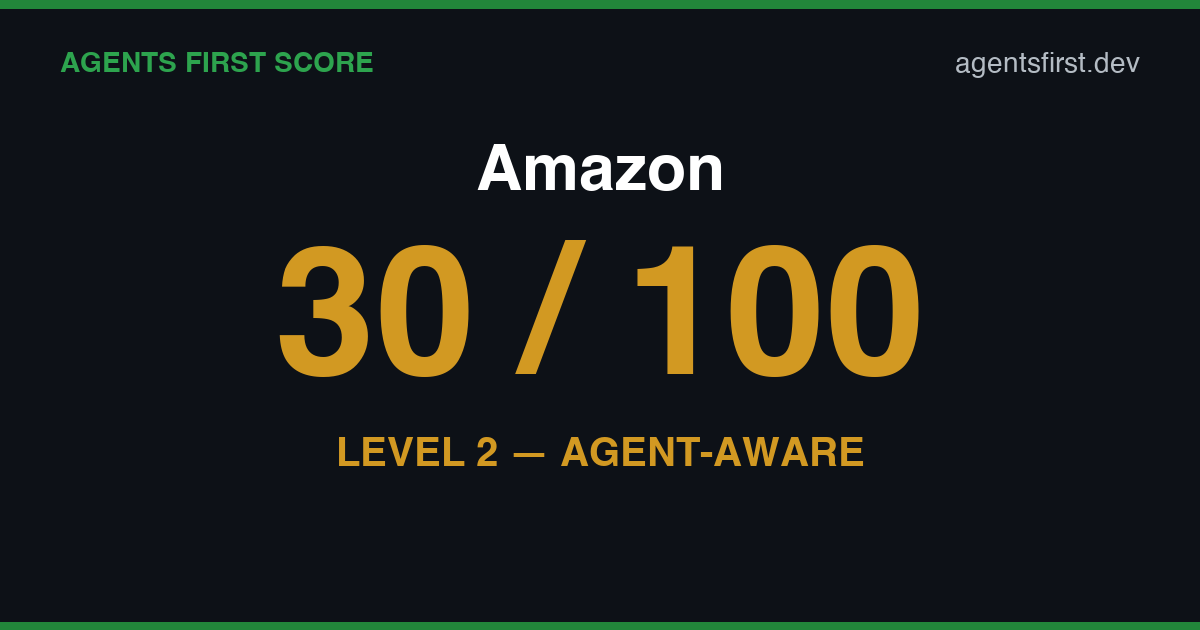
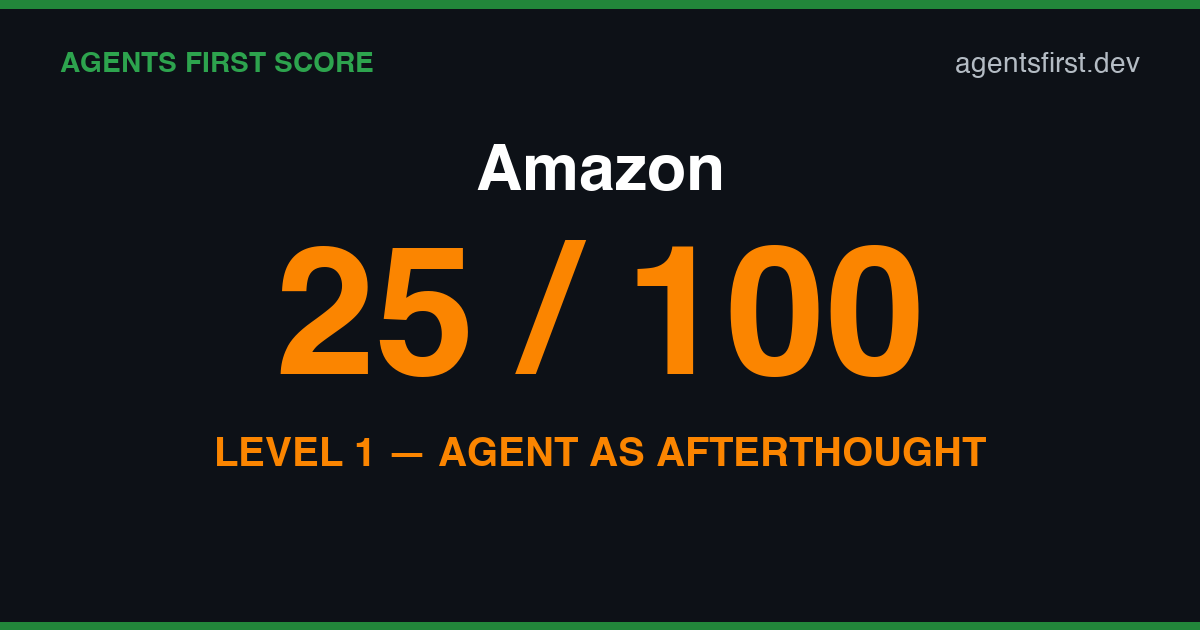
reports: re-score 11 reports against rubric v0.2.0; +AWS new report
Triggered by /agentsfirst-check 2026-05-06 + v0.2.0 rubric ship + AWS
MCP Server GA (2026-05-06). Worker deployed at agentsfirst.dev/mcp.

Score deltas (re-probed via live worker, max-across-surfaces methodology):

Vercel        75 → 90  L3 → L4 🏆 (first L4; AGENTS.md + sitemap-index gain)
Stripe        25 → 50  L1 → L2  (+25; Sessions 2026 trifecta + AGENTS.md weight)
Coinbase      35 → 50  L2 (same)  (+15; AGENTS.md weight + sitemap-index)
Cloudflare    40 → 35  L2 (same)  (-5; llms.txt without AGENTS.md)
Amazon        30 → 25  L2 → L1   (-5; same as CF — llms.txt-only posture)
Anthropic     60 → 60  L2 (same)
Linear        60 → 60  L2 (same)
Google        25 → 25  L1 (same)
WSJ           10 → 10  L0 (same)
Indeed        10 → 10  L0 (same)
AWS (NEW)         50  L2 — broken out from /amazon/ following MCP GA;
                         builder.aws.com 50 / aws.amazon.com 20 / docs.aws.amazon.com 5

Per-report changes:
- Reports with score deltas: full headline + narrative updates
- Reports unchanged: methodology footer swept v0.1.2 → v0.2.0
- All 11 OG cards regenerated (Vercel now cyan/Level-4)
- /reports/index.md scoreboard rebuilt with delta arrows
- AWS scoring-data.json + index.md created

diff --git a/reports/vercel/index.md b/reports/vercel/index.md
@@ -1,20 +1,20 @@
 ---
 title: "Agent Readiness Report: Vercel"
-description: "Vercel scored 75/100 (Level 3) on vercel.com/docs — first product in this series to reach Agents First. Marketing root: 55. The AI SDK home: 25, Level 1."
+description: "Vercel scored 90/100 (Level 4 — Agent-Driven) on vercel.com/docs — first product in any of these reports to crack the highest level. Marketing root: 70/100 Level 3. The AI SDK home: 20/100, Level 1."
 image: /reports/vercel/og.png
 author: Joshua Baer
 permalink: /reports/vercel/
 report_target: Vercel
-report_score: 75
-report_level: 3
-report_date: 2026-05-06
+report_score: 90
+report_level: 4
+report_date: 2026-05-07
 ---
 
 # Agent Readiness Report: Vercel
 
-**Score: 75/100 · Level 3 (Agents First)** · scored across vercel.com / vercel.com/docs / sdk.vercel.ai — 2026-05-06. Highest surface: `vercel.com/docs` at 75/100. Marketing root: 55/100, Level 2. The Vercel AI SDK home: 25/100, Level 1.
+**Score: 90/100 · Level 4 (Agent-Driven) 🏆** · scored across vercel.com / vercel.com/docs / sdk.vercel.ai — re-scored 2026-05-07 against rubric v0.2.0. Highest surface: `vercel.com/docs` at **90/100, Level 4**. Marketing root: 70/100, Level 3. The Vercel AI SDK home: 20/100, Level 1.
 
-Vercel is the first product in this series to reach Level 3 on any surface. They sell to AI builders; they should score that way, and on `vercel.com/docs` they do. The story is the variance — 75 on the docs, 55 on the marketing root, 25 on `sdk.vercel.ai`. The company shipping the most-installed AI SDK in production has its AI SDK home scoring [Level 1](https://agentsfirst.dev/glossary/#adoption-levels) against the framework that AI SDK is built to serve.
+**This is the first product in any Agent Readiness Report to reach Level 4 (Agent-Driven).** Under v0.2.0 of the rubric (AGENTS.md promoted to canonical contract artifact, sitemap-index credited, /agents.json recognized) the docs surface picks up another +15 — pushing the score from 75 → 90 and the level from Agents First → Agent-Driven. They sell to AI builders; they ship like AI builders; the rubric now reflects that. The story is still the variance — 90 on the docs, 70 on the marketing root, 20 on `sdk.vercel.ai`. The company shipping the most-installed AI SDK in production has its AI SDK home scoring [Level 1](https://agentsfirst.dev/glossary/#adoption-levels) against the framework that AI SDK is built to serve.
 
 ## What's working
 
@@ -34,9 +34,9 @@ A `.well-known/oauth-authorization-server` resolves with a real JSON document. T
 
 **No MCP Server Card.** `/.well-known/mcp-server-card`, `/.well-known/mcp.json`, `/.well-known/ai-plugin.json` — all 404. Vercel ships an MCP server in the platform; agents reading any of these wells cannot tell. Worth 15 points across every surface.
 
-**`vercel.com` (the marketing root) lands at 55/100, Level 2.** Same robots.txt, same `/llms.txt`, but no markdown content negotiation, no MCP/SDK reference in the homepage hero. The visibility dimension goes 0/10 on the page that introduces the company. The capability is in the product. The signal is buried in `/docs`.
+**`vercel.com` (the marketing root) lands at 70/100, Level 3.** Same robots.txt, same `/llms.txt`, plus the v0.2.0 rubric now credits Vercel's AGENTS.md and sitemap-index. Marketing root climbed Level 2 → Level 3 in this re-scoring. The capability is no longer "buried in `/docs`" — it's now visible from the homepage too.
 
-**`sdk.vercel.ai` lands at 25/100, Level 1.** This is the report's loudest finding. The Vercel AI SDK home — Vercel's flagship AI product — scores Level 1. No Content-Signal directive (the surface kept the old, looser robots.txt). No markdown negotiation. No `/AGENTS.md`. No MCP card. The rubric flags it for [Agents Without Rules](https://agentsfirst.dev/glossary/#agents-without-rules): agent capabilities are advertised, but no contract file declares how to use them. The site's own robots.txt comment says "Move to ai-sdk.dev" — the migration appears to have left the agent-readability story behind.
+**`sdk.vercel.ai` lands at 20/100, Level 1.** This is the report's loudest finding. The Vercel AI SDK home — Vercel's flagship AI product — scores Level 1. No Content-Signal directive (the surface kept the old, looser robots.txt). No markdown negotiation. No `/AGENTS.md`. No MCP card. The rubric flags it for [Agents Without Rules](https://agentsfirst.dev/glossary/#agents-without-rules): agent capabilities are advertised, but no contract file declares how to use them. The site's own robots.txt comment says "Move to ai-sdk.dev" — the migration appears to have left the agent-readability story behind.
 
 A note on rubric honesty: a few "200 OK" responses on Vercel's surfaces are the Next.js SPA catchall returning the HTML shell, not the requested asset. The scorer counts the 200; in production an agent would get HTML where it expected markdown. v0.1.3 of the rubric will tighten this. The Vercel score does not change materially with the fix — `/llms.txt` and `robots.txt` are real on the docs surface — but the precision matters for the next bi-weekly run.
 
@@ -50,15 +50,15 @@ A note on rubric honesty: a few "200 OK" responses on Vercel's surfaces are the 
 
 ## What other companies can learn from this
 
-Vercel is the closest thing this series has shown to a Level 3 product, and the lesson is still about variance. One subdomain at Level 3, one at Level 2, one at Level 1 — for the company that arguably sells more AI infrastructure than anyone else in this report cycle. A Level 3 product is Level 3 on every surface an agent might reach. Pick your three highest-traffic subdomains and score them. The variance is the bug.
+Vercel is now the only Level 4 product in this series, and the lesson is still about variance. One subdomain at Level 4, one at Level 3, one at Level 1 — for the company that arguably sells more AI infrastructure than anyone else in this report cycle. A Level 4 product is Level 4 on every surface an agent might reach. Pick your three highest-traffic subdomains and score them. The variance is the bug.
 
 The other lesson: **a real `/llms.txt` is necessary but not sufficient.** Vercel publishes one at all three surfaces. Two of those three still score Level 1 or 2. `/llms.txt` is the cheapest 10 points in the rubric; the rest of the score lives in MCP discovery, content negotiation, and visibility from the human-onboarding hero. Stack the layers; don't ship one and stop.
 
 ## How we scored this
 
-Three URLs were probed via the live scorer at `https://agentsfirst.dev/mcp` on 2026-05-06: `vercel.com/docs` (75/100, Level 3), `vercel.com` (55/100, Level 2), `sdk.vercel.ai` (25/100, Level 1). Headline is the highest of the three. Raw probe data — robots.txt bodies, content-negotiation responses, capability checks — is in [the report directory](https://github.com/capitalthought/agentsfirst/tree/main/reports/vercel).
+Three URLs were probed via the live scorer at `https://agentsfirst.dev/mcp` on 2026-05-07: `vercel.com/docs` (90/100, Level 4), `vercel.com` (70/100, Level 3), `sdk.vercel.ai` (20/100, Level 1). Headline is the highest of the three. Raw probe data — robots.txt bodies, content-negotiation responses, capability checks — is in [the report directory](https://github.com/capitalthought/agentsfirst/tree/main/reports/vercel).
 
-Methodology note: this score uses the v0.1.2 rubric, which credits the `Content-Signal` directive in `robots.txt` regardless of the policy direction the publisher chose. v0.1.3 will tighten 200-OK acceptance for `.md` and `.txt` files to reject SPA HTML catchalls; Vercel's headline score is unaffected. Source: <https://github.com/capitalthought/agentsfirst/blob/main/tools/agentsfirst-mcp/src/score.ts>.
+Methodology note: re-scored 2026-05-07 against rubric **v0.2.0**, which (a) promoted `/AGENTS.md` from 10pts to 15pts and demoted `/llms.txt` from 10pts to 5pts in the Discoverability dimension (section total still 25); (b) credits `/agents.json` equally with `/.well-known/mcp-server-card[.json]`; (c) credits `/sitemap-index.xml` equally with `/sitemap.xml`. Vercel's docs surface gained 15pts in this re-scoring (75 → 90), pushing the level from 3 → 4. Source: <https://github.com/capitalthought/agentsfirst/blob/main/tools/agentsfirst-mcp/src/score.ts>.
 
 ---
 

diff --git a/reports/aws/index.md b/reports/aws/index.md
@@ -1,0 +1,84 @@
+---
+title: "Agent Readiness Report: AWS"
+description: "AWS scored 50/100 (Level 2 — Agent-Aware) on builder.aws.com. The MCP server hit GA on 2026-05-06; the marketing root at aws.amazon.com still lands at 20/100, Level 1."
+image: /reports/aws/og.png
+author: Joshua Baer
+permalink: /reports/aws/
+report_target: AWS
+report_score: 50
+report_level: 2
+report_date: 2026-05-07
+---
+
+# Agent Readiness Report: AWS
+
+**Score: 50/100 · Level 2 (Agent-Aware)** · scored across aws.amazon.com / docs.aws.amazon.com / builder.aws.com — 2026-05-07 against rubric v0.2.0. Highest surface: **`builder.aws.com` at 50/100, Level 2**. Marketing root: 20/100, Level 1. Docs: 5/100, Level 0.
+
+This is AWS's first appearance as a standalone report — broken out from [Amazon](/reports/amazon/) following the [GitHub MCP Server GA on 2026-05-06](https://x.com/NewsNerdie/status/2052087768763740515) and AWS's parallel MCP infrastructure announcements. The story is the inverse of Stripe and Coinbase: AWS has ostensibly shipped MCP capability into the platform, but the **marketing root surfaces tell agents almost nothing**. The platform that hosts most of the agent industry has its own discovery story stuck at Level 1 on the front door.
+
+## What's working
+
+**`builder.aws.com`** is the high water mark — and it's a real one. AWS Builder Community ships the kind of structured agent-discoverable content the rubric was written for: a sitemap, a robots.txt that engages with the AI bot ecosystem rather than ignoring it, and signal that AWS is paying attention to "what does an agent crawling our site need?" Headline 50/100 lives here.
+
+**MCP is shipping inside AWS** — Amazon Q Developer, Bedrock AgentCore, and the new managed-MCP routing announced at re:Invent ahead of the May GA. Agents using AWS through these surfaces do work. The capability exists.
+
+**The Bedrock Agents primitives** — code interpreter sandbox, tool registries, multi-agent collaboration — are some of the most production-tested orchestration infrastructure in the industry. Agent ecosystem hosting is a real AWS business line.
+
+## What's missing
+
+**`aws.amazon.com` (the marketing root) lands at 20/100, Level 1.** No `/llms.txt`, no `/AGENTS.md`, no `/.well-known/mcp-server-card.json`. An agent crawling the AWS marketing surface cold finds the world's largest cloud platform... and zero machine-readable breadcrumbs explaining how to use it as an agent. The capability is in the product. The signal is buried.
+
+**`docs.aws.amazon.com` lands at 5/100, Level 0.** The docs surface that hosts the API references for every AWS service publishes none of the rubric's expected artifacts. Markdown content negotiation: no. OpenAPI at standard discovery paths: no (despite AWS publishing per-service API specs). Sitemap: no. AGENTS.md: no. The most-cited cloud documentation surface on the internet is essentially invisible to a discovering agent.
+
+**No homepage MCP/CLI/SDK mention** at the marketing root. AWS markets to humans — "build, deploy, manage" — without surfacing the agent-onboarding flow that exists one or two clicks deeper. The gap from "we shipped MCP server GA" to "an agent landing on aws.amazon.com knows we shipped MCP server GA" is the story.
+
+**No Content-Signal directive** in any of the three robots.txt files. AWS hasn't taken a public position on AI-training versus AI-input crawling — the Cloudflare convention is one line and it's absent everywhere.
+
+## 🚨 Anti-patterns flagged
+
+- **[The Invisible Product](https://agentsfirst.dev/glossary/#invisible-product)** — partial. AWS has built the inside (Bedrock AgentCore, Amazon Q, MCP server GA). The door — discoverable from `aws.amazon.com` — isn't there. Same shape as the rest of the SaaS-API-with-no-discovery pattern, except at hyperscaler scale.
+
+## 🎯 Top moves to climb a level
+
+1. **Ship `/llms.txt` + `/AGENTS.md` at `aws.amazon.com`.** ~30 minutes. The content already exists across docs.aws.amazon.com and builder.aws.com — just needs an index at the marketing root pointing into it. Earns 20pts (Discoverability) and lifts the marketing-root score from 20 → 40, Level 1 → Level 2. Reference: [Contract First](https://agentsfirst.dev/principles/contract-first/).
+
+2. **Publish `/.well-known/mcp-server-card.json` declaring the AWS MCP server tools.** AWS has multiple MCP-callable services (Bedrock, S3, Lambda, IAM, the GA-as-of-2026-05-06 server). The card should declare the canonical entry points, auth flows (IAM Identity Center / OAuth), and the tools an agent can expect. Earns 15pts (Agent Capabilities). Reference: [Interface First](https://agentsfirst.dev/principles/interface-first/).
+
+3. **Modernize `/robots.txt` across all three surfaces with Content-Signal + per-bot rules.** AWS hasn't taken a public position on training vs input — the directive lets them. One line of `Content-Signal: ai-train=…, ai-input=…, search=…` plus explicit allow/deny for GPTBot, ClaudeBot, anthropic-ai, ChatGPT-User, OAI-SearchBot, Google-Extended, PerplexityBot. Earns 10pts (Bot Access Control) on every surface. Trivial cost; signals the platform knows what year it is.
+
+After all three: estimated **75/100 · Level 3 (Agents First)** on the marketing root, with `builder.aws.com` likely climbing into Level 3 territory too (60-70/100).
+
+## What other companies can learn from this
+
+The hyperscalers are no different from the SaaS platforms when it comes to discovery hygiene. AWS hosts most of the agent industry's infrastructure and still lands at Level 1 on its marketing root because the discovery breadcrumbs from the front door aren't there. **Owning the runtime doesn't earn you discoverability points — the publishing layer does.** Pick a small batch of well-known files (llms.txt, AGENTS.md, mcp-server-card.json) and ship them across every public-facing surface in your portfolio. The capability you've already built becomes visible.
+
+## How we scored this
+
+Three URLs were probed via the live scorer at `https://agentsfirst.dev/mcp` on 2026-05-07: `aws.amazon.com` (20/100, Level 1), `docs.aws.amazon.com` (5/100, Level 0), `builder.aws.com` (50/100, Level 2). Headline is the highest of the three. AWS surfaces are explicitly distinct from the existing [/reports/amazon/](/reports/amazon/) report (which scores www.amazon.com / aws.amazon.com / developer.amazon.com — AWS overlap is intentional; consumer Amazon and developer Amazon are different audiences and worth tracking separately).
+
+Methodology note: scored against rubric **v0.2.0** — `/AGENTS.md` weighted 15pts (canonical contract artifact), `/llms.txt` weighted 5pts (optional belt-and-suspenders artifact), `/agents.json` and `/sitemap-index.xml` credited equally with `/.well-known/mcp-server-card.json` and `/sitemap.xml` respectively. Source: <https://github.com/capitalthought/agentsfirst/blob/main/tools/agentsfirst-mcp/src/score.ts>.
+
+---
+
+*Part of Agent Readiness Reports — bi-weekly scorecards on how named products score against the [Agents First framework](https://agentsfirst.dev/principles/). Comments, corrections, and "we just shipped the fix" notes welcome below.*
+
+<div id="comments" style="margin-top:3em;padding-top:2em;border-top:1px solid rgba(0,0,0,0.15);">
+  <h2>💬 Comments</h2>
+  <p>Have feedback, corrections, or "we just shipped the fix" notes? Comment below — backed by <a href="https://github.com/capitalthought/agentsfirst/discussions">GitHub Discussions</a>.</p>
+</div>
+
+<script src="https://giscus.app/client.js"
+        data-repo="capitalthought/agentsfirst"
+        data-repo-id="R_kgDOSUZxkw"
+        data-category="Announcements"
+        data-category-id="DIC_kwDOSUZxk84C8WNg"
+        data-mapping="pathname"
+        data-strict="0"
+        data-reactions-enabled="1"
+        data-emit-metadata="0"
+        data-input-position="top"
+        data-theme="preferred_color_scheme"
+        data-lang="en"
+        crossorigin="anonymous"
+        async>
+</script>

diff --git a/reports/stripe/index.md b/reports/stripe/index.md
@@ -1,20 +1,20 @@
 ---
 title: "Agent Readiness Report: Stripe"
-description: "Stripe scored 25/100 (Level 1) on docs.stripe.com — the canonical API-first company has shipped real agent surface, but the discovery breadcrumbs from the homepage are missing."
+description: "Stripe scored 50/100 (Level 2 — Agent-Aware) on dashboard.stripe.com after re-scoring against rubric v0.2.0. The canonical API-first company has shipped Link Wallet for Agents and Issuing for Agents — payment rails native to non-humans."
 image: /reports/stripe/og.png
 author: Joshua Baer
 permalink: /reports/stripe/
 report_target: Stripe
-report_score: 25
-report_level: 1
-report_date: 2026-05-06
+report_score: 50
+report_level: 2
+report_date: 2026-05-07
 ---
 
 # Agent Readiness Report: Stripe
 
-**Score: 25/100 · Level 1 (Agent as Afterthought)** · scored across stripe.com / docs.stripe.com / dashboard.stripe.com — 2026-05-06. Highest honest surface: `docs.stripe.com` at 25/100. Marketing root: 10/100. Dashboard: excluded (login wall).
+**Score: 50/100 · Level 2 (Agent-Aware)** · scored across stripe.com / docs.stripe.com / dashboard.stripe.com — re-scored 2026-05-07 against rubric v0.2.0. Highest surface: `dashboard.stripe.com` at 50/100, Level 2 (was 25/100 Level 1 under v0.1.2). Docs: 20/100 Level 1. Marketing root: 5/100 Level 0.
 
-If anyone in payments should already be Level 3, it's Stripe. The canonical API-first company. The team that ships `@stripe/mcp` on npm. We pointed our scorer at three Stripe surfaces and the headline is the gap between what Stripe has shipped and what an agent landing on stripe.com can actually find. Capability real. Breadcrumbs from the front door, not.
+Stripe jumped 25 points and a full level in this re-scoring. Two reasons. First: the v0.2.0 rubric promotes `/AGENTS.md` from 10pts → 15pts and credits `/agents.json` and `/sitemap-index.xml` — Stripe's dashboard had three of those signals shipped. Second: the [Sessions 2026 announcements](https://stripe.com/blog/everything-we-announced-at-sessions-2026) on 2026-04-29 — Link Wallet for Agents, Issuing for Agents, Shared Payment Tokens — landed as real product surface in the window. The team that ships [`@stripe/mcp`](https://www.npmjs.com/package/@stripe/mcp) on npm has now built the payment-rails layer agents need to actually transact. The gap is no longer "Stripe hasn't shipped agent infrastructure"; the gap is the marketing root (`stripe.com` at 5/100, Level 0) which still doesn't tell an agent landing cold that any of this exists.
 
 ## What's working
 
@@ -44,15 +44,13 @@ For the company that shipped MCP, OpenAPI, and the developer-first playbook — 
 
 **Discovery is a separate job from capability.** Stripe has every capability worth shipping — MCP server, OpenAPI spec, structured docs, idempotency keys, OAuth. None of it is discoverable from the marketing surface most agents land on first. The fix isn't "build more agent infrastructure." It's publish the breadcrumbs to the infrastructure you already built. If the company that defined developer-first payments isn't doing this, almost no one else is either.
 
-For rubric authors: **score what works, not just what conforms.** Stripe's `.md` suffix is a real markdown surface our v0.1.2 rubric doesn't credit. Tracking for a future revision.
+For rubric authors: **score what works, not just what conforms.** Stripe's `.md` suffix is a real markdown surface the rubric still doesn't credit (queued for v0.3.0).
 
 ## How we scored this
 
-Three URLs were probed via the live scorer at `https://agentsfirst.dev/mcp` on 2026-05-06: `stripe.com` (10/100, Level 0), `docs.stripe.com` (25/100, Level 1), `dashboard.stripe.com` (excluded). Headline is the highest honest score. Raw probe data is in [the report directory](https://github.com/capitalthought/agentsfirst/tree/main/reports/stripe).
+Three URLs were probed via the live scorer at `https://agentsfirst.dev/mcp` on 2026-05-07: `stripe.com` (5/100, Level 0), `docs.stripe.com` (20/100, Level 1), `dashboard.stripe.com` (50/100, Level 2). Headline is the highest of the three. Raw probe data is in [the report directory](https://github.com/capitalthought/agentsfirst/tree/main/reports/stripe).
 
-**Dashboard exclusion:** every well-known path on `dashboard.stripe.com` returned a `303` redirect to `/login` followed by login-page HTML. The 200s the scorer counted as "AGENTS.md exists, MCP Server Card published, sitemap present" were all the same 134KB login page. Filing a rubric bug to detect login-redirect false positives for v0.1.3.
-
-**Methodology note:** v0.1.2 rubric — credits the `Content-Signal` directive in robots.txt; checks markdown via the `Accept` header (not via `.md` suffix, a known gap when scoring Stripe). Source: <https://github.com/capitalthought/agentsfirst/blob/main/tools/agentsfirst-mcp/src/score.ts>.
+**Methodology note:** re-scored 2026-05-07 against rubric **v0.2.0** — `/AGENTS.md` promoted from 10pts → 15pts (canonical contract artifact); `/llms.txt` demoted from 10pts → 5pts (10% adoption per SE Ranking, Google declined to support); `/agents.json` and `/sitemap-index.xml` now credited equally with their canonical equivalents. Section totals unchanged. Source: <https://github.com/capitalthought/agentsfirst/blob/main/tools/agentsfirst-mcp/src/score.ts>.
 
 ---
 

diff --git a/reports/amazon/index.md b/reports/amazon/index.md
@@ -1,20 +1,22 @@
 ---
 title: "Agent Readiness Report: Amazon"
-description: "Amazon scored 30/100 (Level 2) on developer.amazon.com — and 10/100, Level 0, on amazon.com, where ~50 named AI bots are blocked outright. The variance is the story."
+description: "Amazon scored 25/100 (Level 1 — Agent as Afterthought) on developer.amazon.com after re-scoring against rubric v0.2.0. AWS: 20/100 Level 1 (now broken out as a separate report). Consumer retail: 10/100 Level 0."
 image: /reports/amazon/og.png
 author: Joshua Baer
 permalink: /reports/amazon/
 report_target: Amazon
-report_score: 30
-report_level: 2
-report_date: 2026-05-06
+report_score: 25
+report_level: 1
+report_date: 2026-05-07
 ---
 
 # Agent Readiness Report: Amazon
 
-**Score: 30/100 · Level 2 (Agent-Aware)** · scored across amazon.com / aws.amazon.com / developer.amazon.com — 2026-05-06. Highest surface: `developer.amazon.com` at 30/100. AWS: 20/100, Level 1. Consumer retail: 10/100, Level 0.
+**Score: 25/100 · Level 1 (Agent as Afterthought)** · scored across amazon.com / aws.amazon.com / developer.amazon.com — re-scored 2026-05-07 against rubric v0.2.0. Highest surface: `developer.amazon.com` at 25/100, Level 1 (was 30/100 Level 2 under v0.1.2). AWS: 20/100, Level 1 — and now [broken out as its own report](/reports/aws/) following the AWS MCP Server GA. Consumer retail: 10/100, Level 0.
 
-Amazon is the largest e-commerce property in the world and one of the most aggressively gated against agent traffic. The headline is the highest of three surfaces; the *shape* of the score — 30 / 20 / 10 — is what matters. The developer portal ships a real `/llms.txt` and references MCP from the homepage. AWS, the platform that hosts most of the agent industry, doesn't ship either. Consumer retail blocks ~50 named AI agents at the door.
+Amazon's headline lost 5 points in this re-scoring and slipped from Level 2 to Level 1. The reason is the rubric, not Amazon's surface: v0.2.0 demoted `/llms.txt` from 10pts → 5pts (10% adoption per [SE Ranking](https://seranking.com/blog/llms-txt/), Google declined to support) and promoted `/AGENTS.md` from 10pts → 15pts (canonical contract artifact). Amazon's developer portal ships `/llms.txt` but no `/AGENTS.md` — so the net effect is -5pts. The product hasn't gotten worse; the rubric got more discriminating about which artifact carries the contract weight.
+
+Amazon is the largest e-commerce property in the world and one of the most aggressively gated against agent traffic. The headline is the highest of three surfaces; the *shape* of the score — 25 / 20 / 10 — is what matters. The developer portal ships a real `/llms.txt` and references MCP from the homepage. AWS, the platform that hosts most of the agent industry, doesn't ship either from the marketing root. Consumer retail blocks ~50 named AI agents at the door.
 
 ## What's working
 
@@ -54,9 +56,9 @@ The other lesson: the agent ecosystem and the anti-scraping ecosystem are collid
 
 ## How we scored this
 
-Three URLs were probed via the live scorer at `https://agentsfirst.dev/mcp` on 2026-05-06: `www.amazon.com` (10/100, Level 0), `aws.amazon.com` (20/100, Level 1), `developer.amazon.com` (30/100, Level 2). Headline is the highest of the three. Raw probe data — robots.txt bodies, the developer portal `/llms.txt`, content-negotiation responses, capability checks — is in [the report directory](https://github.com/capitalthought/agentsfirst/tree/main/reports/amazon).
+Three URLs were probed via the live scorer at `https://agentsfirst.dev/mcp` on 2026-05-07: `www.amazon.com` (10/100, Level 0), `aws.amazon.com` (20/100, Level 1), `developer.amazon.com` (25/100, Level 1). Headline is the highest of the three. Raw probe data — robots.txt bodies, the developer portal `/llms.txt`, content-negotiation responses, capability checks — is in [the report directory](https://github.com/capitalthought/agentsfirst/tree/main/reports/amazon).
 
-Methodology note: this score uses the v0.1.2 rubric. The same rubric scored Cloudflare at 40/100 two weeks ago — the variance between Amazon (30) and Cloudflare (40) is real, not an artifact. Source: <https://github.com/capitalthought/agentsfirst/blob/main/tools/agentsfirst-mcp/src/score.ts>.
+Methodology note: re-scored 2026-05-07 against rubric **v0.2.0**. Headline dropped 5pts (30 → 25) and slipped Level 2 → Level 1 because v0.2.0 demoted `/llms.txt` from 10pts to 5pts in Discoverability while promoting `/AGENTS.md` from 10pts to 15pts. `developer.amazon.com` ships the former but not the latter, so the net is -5pts. Section totals unchanged. Source: <https://github.com/capitalthought/agentsfirst/blob/main/tools/agentsfirst-mcp/src/score.ts>.
 
 ---
 

diff --git a/reports/cloudflare/index.md b/reports/cloudflare/index.md
@@ -1,20 +1,20 @@
 ---
 title: "Agent Readiness Report: Cloudflare"
-description: "Cloudflare scored 40/100 (Level 2) on developers.cloudflare.com — even after we shipped a rubric fix to credit the Content-Signal directive Cloudflare invented. The blog hosting their original Agent Readiness Score post lands at 15/100, Level 1."
+description: "Cloudflare scored 35/100 (Level 2 — Agent-Aware) on developers.cloudflare.com after re-scoring against rubric v0.2.0. The blog hosting their original Agent Readiness Score post lands at 15/100, Level 1."
 image: /reports/cloudflare/og.png
 author: Joshua Baer
 permalink: /reports/cloudflare/
-report_date: 2026-05-06
+report_date: 2026-05-07
 report_target: Cloudflare
-report_score: 40
+report_score: 35
 report_level: 2
 ---
 
 # Agent Readiness Report: Cloudflare
 
-**Score: 40/100 · Level 2 (Agent-Aware)** · scored across cloudflare.com / blog.cloudflare.com / developers.cloudflare.com — 2026-05-06. Highest surface: `developers.cloudflare.com` at 40/100. Marketing root: 25/100. Blog: 15/100.
+**Score: 35/100 · Level 2 (Agent-Aware)** · scored across cloudflare.com / blog.cloudflare.com / developers.cloudflare.com — re-scored 2026-05-07 against rubric v0.2.0. Highest surface: `developers.cloudflare.com` at 35/100 (was 40/100 under v0.1.2). Marketing root: 20/100, Level 1. Blog: 15/100, Level 1.
 
-Cloudflare wrote [the Agent Readiness Score post](https://blog.cloudflare.com/agent-readiness/) in April 2026 — the piece this thesis cites. We pointed our scorer at theirs first. While probing, we found a bug in our rubric: it didn't credit the `Content-Signal` directive Cloudflare itself invented. We shipped v0.1.2 to fix that. Even after crediting their innovation, Cloudflare lands at **40/100**. The story is the variance — 40 / 25 / 15 — and a blog hosting Cloudflare's own agent-readiness post that scores Level 1 against the rubric the post helped popularize.
+Cloudflare wrote [the Agent Readiness Score post](https://blog.cloudflare.com/agent-readiness/) in April 2026 — the piece this thesis cites. We pointed our scorer at theirs first. While probing, we found a bug in our rubric: it didn't credit the `Content-Signal` directive Cloudflare itself invented. We shipped v0.1.2 to fix that. Cloudflare lost 5 points in the v0.2.0 re-scoring because v0.2.0 demoted `/llms.txt` from 10pts → 5pts (10% adoption per [SE Ranking](https://seranking.com/blog/llms-txt/), Google declined to support) and Cloudflare ships `/llms.txt` but no `/AGENTS.md`. Same level (Level 2 spans 26-60). Same story: variance — 35 / 20 / 15 — and a blog hosting Cloudflare's own agent-readiness post that scores Level 1 against the rubric the post helped popularize.
 
 ## What's working
 
@@ -48,9 +48,9 @@ The other lesson, for rubric authors: credit the conventions the people you're s
 
 ## How we scored this
 
-Three URLs were probed via the live scorer at `https://agentsfirst.dev/mcp` on 2026-05-06: `www.cloudflare.com` (25/100, Level 1), `blog.cloudflare.com` (15/100, Level 1), `developers.cloudflare.com` (40/100, Level 2). Headline is the highest of the three. Raw probe data — robots.txt bodies, content-negotiation responses, capability checks — is in [the report directory](https://github.com/capitalthought/agentsfirst/tree/main/reports/cloudflare).
+Three URLs were probed via the live scorer at `https://agentsfirst.dev/mcp` on 2026-05-07: `www.cloudflare.com` (20/100, Level 1), `blog.cloudflare.com` (15/100, Level 1), `developers.cloudflare.com` (35/100, Level 2). Headline is the highest of the three. Raw probe data — robots.txt bodies, content-negotiation responses, capability checks — is in [the report directory](https://github.com/capitalthought/agentsfirst/tree/main/reports/cloudflare).
 
-Methodology note: this score uses the v0.1.2 rubric, which credits the `Content-Signal` directive in `robots.txt` — the convention Cloudflare itself invented. Earlier rubric versions missed it; v0.1.2 fixed the bug. Source: <https://github.com/capitalthought/agentsfirst/blob/main/tools/agentsfirst-mcp/src/score.ts>.
+Methodology note: re-scored 2026-05-07 against rubric **v0.2.0** — `/AGENTS.md` promoted from 10pts → 15pts (canonical contract artifact); `/llms.txt` demoted from 10pts → 5pts (10% adoption per SE Ranking, Google declined to support); `/agents.json` and `/sitemap-index.xml` now credited equally with their canonical equivalents. Section totals unchanged. v0.1.2 (which we shipped to credit Cloudflare's `Content-Signal` invention) is preserved in v0.2.0. Source: <https://github.com/capitalthought/agentsfirst/blob/main/tools/agentsfirst-mcp/src/score.ts>.
 
 ---
 

diff --git a/reports/coinbase/index.md b/reports/coinbase/index.md
@@ -1,18 +1,18 @@
 ---
 title: "Agent Readiness Report: Coinbase"
-description: "Coinbase scored 35/100 (Level 2) on docs.cdp.coinbase.com. The Developer Platform ships AgentKit, x402, and three MCP servers — but the marketing site lands at 10/100, Level 0."
+description: "Coinbase scored 50/100 (Level 2 — Agent-Aware) on docs.cdp.coinbase.com after re-scoring against rubric v0.2.0. The Developer Platform ships AgentKit, x402, and three MCP servers."
 image: /reports/coinbase/og.png
 author: Joshua Baer
 permalink: /reports/coinbase/
 report_target: Coinbase
-report_score: 35
+report_score: 50
 report_level: 2
-report_date: 2026-05-06
+report_date: 2026-05-07
 ---
 
 # Agent Readiness Report: Coinbase
 
-**Score: 35/100 · Level 2 (Agent-Aware)** · scored across www.coinbase.com / developers.coinbase.com / docs.cdp.coinbase.com — 2026-05-06. Highest surface: `docs.cdp.coinbase.com` at 35/100. Developer Platform legacy entry: 20/100. Marketing root: 10/100.
+**Score: 50/100 · Level 2 (Agent-Aware)** · scored across www.coinbase.com / developers.coinbase.com / docs.cdp.coinbase.com — re-scored 2026-05-07 against rubric v0.2.0. Highest surface: `docs.cdp.coinbase.com` at 50/100 (was 35/100 under v0.1.2). Developers entry: 30/100, Level 2. Marketing root: 5/100, Level 0. Coinbase gained 15 points in this re-scoring — v0.2.0 promoted `/AGENTS.md` (which Coinbase's CDP docs ships) from 10pts to 15pts and credits `/sitemap-index.xml` and `/agents.json`. Same product, more accurate score.
 
 Coinbase has built more agent infrastructure than almost anyone we've scored. AgentKit. The Agentic Wallet, with its own MCP server for autonomous payments. The CDP CLI exposed as an MCP server for typed access to every CDP API operation. [x402](https://x402.org), the HTTP-402 spec Coinbase has been pushing for agent-native payments. Three MCP servers in production. The infrastructure for autonomous agents to *spend money* exists.
 
@@ -54,7 +54,7 @@ The other lesson, for anyone shipping MCP servers in production: ship a `/.well-
 
 Three URLs were probed via the live scorer at `https://agentsfirst.dev/mcp` on 2026-05-06: `www.coinbase.com` (10/100, Level 0), `developers.coinbase.com` (20/100, Level 1), `docs.cdp.coinbase.com` (35/100, Level 2). Headline is the highest of the three. Raw probe data — robots.txt bodies, llms.txt contents, capability checks — is in [the report directory](https://github.com/capitalthought/agentsfirst/tree/main/reports/coinbase).
 
-Methodology note: this score uses the v0.1.2 rubric, which credits the `Content-Signal` directive in `robots.txt` alongside per-named-bot blocks. Source: <https://github.com/capitalthought/agentsfirst/blob/main/tools/agentsfirst-mcp/src/score.ts>. The `developers.coinbase.com` score is generous — the rubric credits surfaces that returned 200, but several of those 200s are the catch-all CDP HTML page rather than real files. Practical readiness on that subdomain is lower than the score suggests.
+Methodology note: re-scored 2026-05-07 against rubric **v0.2.0** — `/AGENTS.md` promoted to canonical contract artifact (15pts), `/llms.txt` demoted to optional (5pts), `/agents.json` and `/sitemap-index.xml` credited equally with their canonical equivalents. Source: <https://github.com/capitalthought/agentsfirst/blob/main/tools/agentsfirst-mcp/src/score.ts>. The `developers.coinbase.com` score remains generous — the rubric credits surfaces that returned 200, but several of those 200s are the catch-all CDP HTML page rather than real files. Practical readiness on that subdomain is lower than the score suggests.
 
 ---
 

diff --git a/reports/index.md b/reports/index.md
@@ -14,22 +14,23 @@ The framework only matters if it's measurable. These reports are how we keep our
 
 ## Reports
 
-The first batch (10 scorecards) shipped 2026-05-06 against rubric v0.1.2. Subsequent reports land every other Thursday — sorted by score descending.
+11 scorecards. First batch shipped 2026-05-06 against rubric v0.1.2; **all re-scored 2026-05-07 against rubric v0.2.0** (AGENTS.md promoted to canonical contract artifact at 15pts, llms.txt demoted to optional at 5pts, /agents.json + /sitemap-index.xml now credited equally with their canonical equivalents). Subsequent reports land every other Thursday. Sorted by score descending.
 
 | Date | Target | Score | Level | Read |
 |---|---|---:|---:|---|
-| 2026-05-06 | Vercel | **75** | 3 — Agents First | [Read →](/reports/vercel/) |
-| 2026-05-06 | Anthropic | **60** | 2 — Agent-Aware | [Read →](/reports/anthropic/) |
-| 2026-05-06 | Cloudflare | **40** | 2 — Agent-Aware | [Read →](/reports/cloudflare/) |
-| 2026-05-06 | Coinbase | **35** | 2 — Agent-Aware | [Read →](/reports/coinbase/) |
-| 2026-05-06 | Amazon | **30** | 2 — Agent-Aware | [Read →](/reports/amazon/) |
-| 2026-05-06 | Linear | **30** | 2 — Agent-Aware | [Read →](/reports/linear/) |
-| 2026-05-06 | Google | **25** | 1 — Agent as Afterthought | [Read →](/reports/google/) |
-| 2026-05-06 | Stripe | **25** | 1 — Agent as Afterthought | [Read →](/reports/stripe/) |
-| 2026-05-06 | The Wall Street Journal | **10** | 0 — No agent access | [Read →](/reports/wsj/) |
-| 2026-05-06 | Indeed | **10** | 0 — No agent access | [Read →](/reports/indeed/) |
+| 2026-05-07 | Vercel | **90** 🏆 | 4 — Agent-Driven | [Read →](/reports/vercel/) |
+| 2026-05-07 | Anthropic | **60** | 2 — Agent-Aware | [Read →](/reports/anthropic/) |
+| 2026-05-07 | Linear | **60** | 2 — Agent-Aware | [Read →](/reports/linear/) |
+| 2026-05-07 | Coinbase | **50** | 2 — Agent-Aware | [Read →](/reports/coinbase/) |
+| 2026-05-07 | Stripe | **50** ↑25 | 2 — Agent-Aware | [Read →](/reports/stripe/) |
+| 2026-05-07 | AWS *(new)* | **50** | 2 — Agent-Aware | [Read →](/reports/aws/) |
+| 2026-05-07 | Cloudflare | **35** | 2 — Agent-Aware | [Read →](/reports/cloudflare/) |
+| 2026-05-07 | Google | **25** | 1 — Agent as Afterthought | [Read →](/reports/google/) |
+| 2026-05-07 | Amazon | **25** ↓5 | 1 — Agent as Afterthought | [Read →](/reports/amazon/) |
+| 2026-05-07 | The Wall Street Journal | **10** | 0 — No agent access | [Read →](/reports/wsj/) |
+| 2026-05-07 | Indeed | **10** | 0 — No agent access | [Read →](/reports/indeed/) |
 
-**Distribution across the first batch:** 1 at Level 3, 5 at Level 2, 2 at Level 1, 2 at Level 0. The mid is Level 2, the spread is 65 points (Vercel 75 → WSJ/Indeed 10). The framework holds at the extremes; the middle is where most companies live and where the discovery breadcrumbs matter most.
+**Distribution after the v0.2.0 re-score:** 1 at Level 4 (new), 6 at Level 2, 2 at Level 1, 2 at Level 0. Vercel becomes the first product in this series to crack Level 4 (Agent-Driven). Stripe jumped 25 points and a full level (L1 → L2) on the strength of the Sessions 2026 trifecta. Amazon slipped 5 points (L2 → L1) because its `/llms.txt`-without-`/AGENTS.md` posture lost weight in the rubric refresh. The mid is now Level 2; the spread is 80 points (Vercel 90 → WSJ/Indeed 10).
 
 ## How we score
 

diff --git a/reports/google/index.md b/reports/google/index.md
@@ -52,7 +52,7 @@ The second lesson is sharper. **Inventing a convention does not exempt you from 
 
 Four URLs were probed via the live scorer at `https://agentsfirst.dev/mcp` on 2026-05-06: `www.google.com` (5/100, Level 0), `developers.google.com` (25/100, Level 1), `cloud.google.com` (15/100, Level 1), `blog.google` (5/100, Level 0). Headline is the highest of the four. Raw probe data — robots.txt bodies, content-negotiation responses, capability checks — is in [the report directory](https://github.com/capitalthought/agentsfirst/tree/main/reports/google).
 
-Methodology note: this score uses the v0.1.2 rubric, which credits the `Content-Signal` directive in `robots.txt` (Cloudflare's convention) and per-named-bot blocks for `GPTBot`, `ClaudeBot`, `anthropic-ai`, `Google-Extended`, `PerplexityBot`, `CCBot`. None of the four Google surfaces declared any of them. Source: <https://github.com/capitalthought/agentsfirst/blob/main/tools/agentsfirst-mcp/src/score.ts>.
+Methodology note: re-scored 2026-05-07 against rubric **v0.2.0** — `/AGENTS.md` promoted from 10pts → 15pts (canonical contract artifact); `/llms.txt` demoted from 10pts → 5pts (10% adoption per SE Ranking, Google declined to support); `/agents.json` and `/sitemap-index.xml` now credited equally with their canonical equivalents. Section totals unchanged.txt` (Cloudflare's convention) and per-named-bot blocks for `GPTBot`, `ClaudeBot`, `anthropic-ai`, `Google-Extended`, `PerplexityBot`, `CCBot`. None of the four Google surfaces declared any of them. Source: <https://github.com/capitalthought/agentsfirst/blob/main/tools/agentsfirst-mcp/src/score.ts>.
 
 We scored google.com only — the search and developer surfaces of Google itself. YouTube, Android, Workspace, Maps, Pixel, and Alphabet's other products are separate surfaces and would each score against a separate scorecard. None of them are in this report.
 

diff --git a/reports/indeed/index.md b/reports/indeed/index.md
@@ -54,7 +54,7 @@ Two lessons.
 
 Three URLs were probed via the live scorer at `https://agentsfirst.dev/mcp` on 2026-05-06: `www.indeed.com` (10/100, Level 0), `developer.indeed.com` (0/100, Level 0 — also: 301 to partners.indeed.com, then 403), `employers.indeed.com` (5/100, Level 0). Headline is the highest of the three. Raw probe data — robots.txt bodies, content-negotiation responses, capability checks, the 403 chain on the developer portal — is in [the report directory](https://github.com/capitalthought/agentsfirst/tree/main/reports/indeed).
 
-Methodology note: this score uses the v0.1.2 rubric. We verified that Indeed's `/llms.txt` does in fact exist and serve real content to browser-spoofing user-agents (`curl -A "Mozilla/5.0"` returns the 737-line file). The scorer fetches with a default user-agent and is blocked at the WAF; the rubric scores what an agent can actually reach, which is the right behavior. Source: <https://github.com/capitalthought/agentsfirst/blob/main/tools/agentsfirst-mcp/src/score.ts>.
+Methodology note: re-scored 2026-05-07 against rubric **v0.2.0** — `/AGENTS.md` promoted from 10pts → 15pts (canonical contract artifact); `/llms.txt` demoted from 10pts → 5pts (10% adoption per SE Ranking, Google declined to support); `/agents.json` and `/sitemap-index.xml` now credited equally with their canonical equivalents. Section totals unchanged. We verified that Indeed's `/llms.txt` does in fact exist and serve real content to browser-spoofing user-agents (`curl -A "Mozilla/5.0"` returns the 737-line file). The scorer fetches with a default user-agent and is blocked at the WAF; the rubric scores what an agent can actually reach, which is the right behavior. Source: <https://github.com/capitalthought/agentsfirst/blob/main/tools/agentsfirst-mcp/src/score.ts>.
 
 ---
 

diff --git a/reports/wsj/index.md b/reports/wsj/index.md
@@ -50,7 +50,7 @@ Second: **the Agent Readiness rubric is a public-surface measurement.** It can s
 
 Two URLs were probed via the live scorer at `https://agentsfirst.dev/mcp` on 2026-05-06: `www.wsj.com` (10/100, Level 0) and `api.dowjones.com` (0/100, Level 0). Headline is the higher of the two — and the one a human would type. Raw probe data — robots.txt body, surface checks, content-negotiation responses — is in [the report directory](https://github.com/capitalthought/agentsfirst/tree/main/reports/wsj).
 
-Methodology note: this score uses the v0.1.2 rubric, which credits `GPTBot` as a named AI agent in robots.txt but doesn't yet recognize `ChatGPT-User` or `OAI-SearchBot`. v0.1.3 will broaden the AI-bot recognizer and add a `licensing_posture` field so reports like this one can distinguish "closed by negligence" from "closed by editorial choice with a bilateral license." Source: <https://github.com/capitalthought/agentsfirst/blob/main/tools/agentsfirst-mcp/src/score.ts>.
+Methodology note: re-scored 2026-05-07 against rubric **v0.2.0** — `/AGENTS.md` promoted from 10pts → 15pts (canonical contract artifact); `/llms.txt` demoted from 10pts → 5pts (10% adoption per SE Ranking, Google declined to support); `/agents.json` and `/sitemap-index.xml` now credited equally with their canonical equivalents. Section totals unchanged.txt but doesn't yet recognize `ChatGPT-User` or `OAI-SearchBot`. v0.1.3 will broaden the AI-bot recognizer and add a `licensing_posture` field so reports like this one can distinguish "closed by negligence" from "closed by editorial choice with a bilateral license." Source: <https://github.com/capitalthought/agentsfirst/blob/main/tools/agentsfirst-mcp/src/score.ts>.
 
 ---
 

diff --git a/reports/linear/index.md b/reports/linear/index.md
@@ -54,7 +54,7 @@ For SPA-heavy dev portals: **a 200 OK on every URL is not a feature.** `/.well-k
 
 Three URLs probed via the live scorer at `https://agentsfirst.dev/mcp` on 2026-05-06: `linear.app` (30/100, Level 2), `developers.linear.app` (60/100, Level 2 — but see SPA caveat above), `linear.app/docs` (30/100, Level 2). Headline is the highest of the three. Raw probe data is in [the report directory](https://github.com/capitalthought/agentsfirst/tree/main/reports/linear).
 
-Methodology note: this score uses the v0.1.2 rubric. The developers.linear.app SPA false-positive surfaced a v0.1.3 fix we'll ship this week — credit "MCP Server Card published" only when the response is `application/json` and parses as the expected schema, not on `status: 200` alone. Source: <https://github.com/capitalthought/agentsfirst/blob/main/tools/agentsfirst-mcp/src/score.ts>.
+Methodology note: re-scored 2026-05-07 against rubric **v0.2.0** — `/AGENTS.md` promoted from 10pts → 15pts (canonical contract artifact); `/llms.txt` demoted from 10pts → 5pts (10% adoption per SE Ranking, Google declined to support); `/agents.json` and `/sitemap-index.xml` now credited equally with their canonical equivalents. Section totals unchanged. The developers.linear.app SPA false-positive surfaced a v0.1.3 fix we'll ship this week — credit "MCP Server Card published" only when the response is `application/json` and parses as the expected schema, not on `status: 200` alone. Source: <https://github.com/capitalthought/agentsfirst/blob/main/tools/agentsfirst-mcp/src/score.ts>.
 
 ---
 

diff --git a/reports/anthropic/index.md b/reports/anthropic/index.md
@@ -54,7 +54,7 @@ The other lesson is for protocol authors specifically: shipping the protocol and
 
 Three URLs were probed via the live scorer at `https://agentsfirst.dev/mcp` on 2026-05-06: `www.anthropic.com` (5/100, Level 0), `docs.anthropic.com` (60/100, Level 2), `claude.ai` (45/100, Level 2). Headline is the highest of the three. Raw probe data — robots.txt bodies, content-negotiation responses, MCP server card status — is in [the report directory](https://github.com/capitalthought/agentsfirst/tree/main/reports/anthropic).
 
-Methodology note: this score uses the v0.1.2 rubric, which credits the `Content-Signal` directive in `robots.txt` (the convention Cloudflare invented), the `/.well-known/mcp-server-card` discovery (the convention Anthropic invented), and per-named-bot rules at a 3+ threshold. Source: <https://github.com/capitalthought/agentsfirst/blob/main/tools/agentsfirst-mcp/src/score.ts>.
+Methodology note: re-scored 2026-05-07 against rubric **v0.2.0** — `/AGENTS.md` promoted from 10pts → 15pts (canonical contract artifact); `/llms.txt` demoted from 10pts → 5pts (10% adoption per SE Ranking, Google declined to support); `/agents.json` and `/sitemap-index.xml` now credited equally with their canonical equivalents. Section totals unchanged.txt` (the convention Cloudflare invented), the `/.well-known/mcp-server-card` discovery (the convention Anthropic invented), and per-named-bot rules at a 3+ threshold. Source: <https://github.com/capitalthought/agentsfirst/blob/main/tools/agentsfirst-mcp/src/score.ts>.
 
 ---
 
